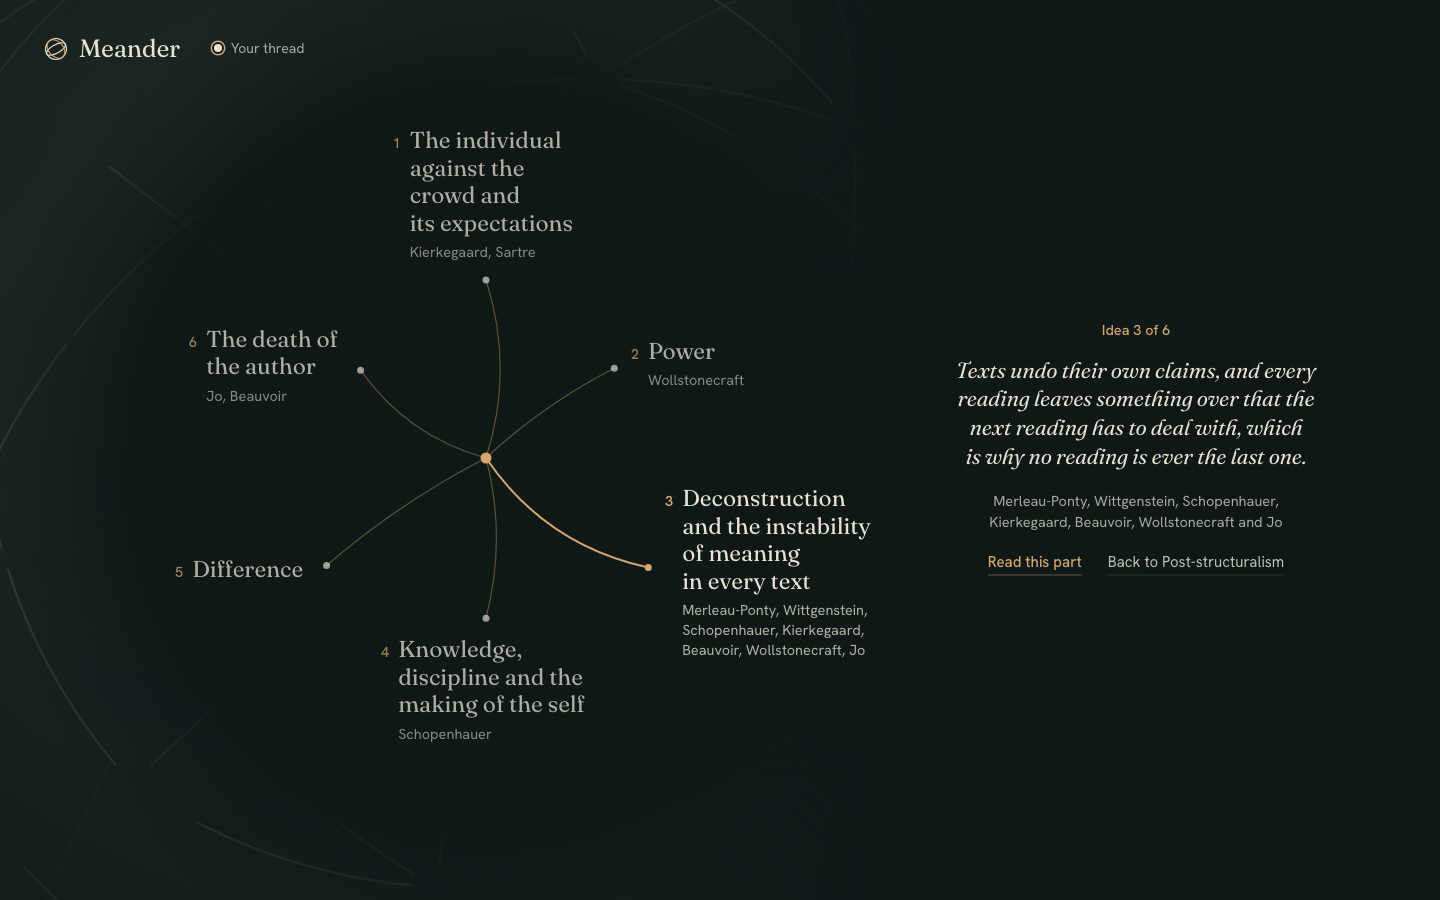
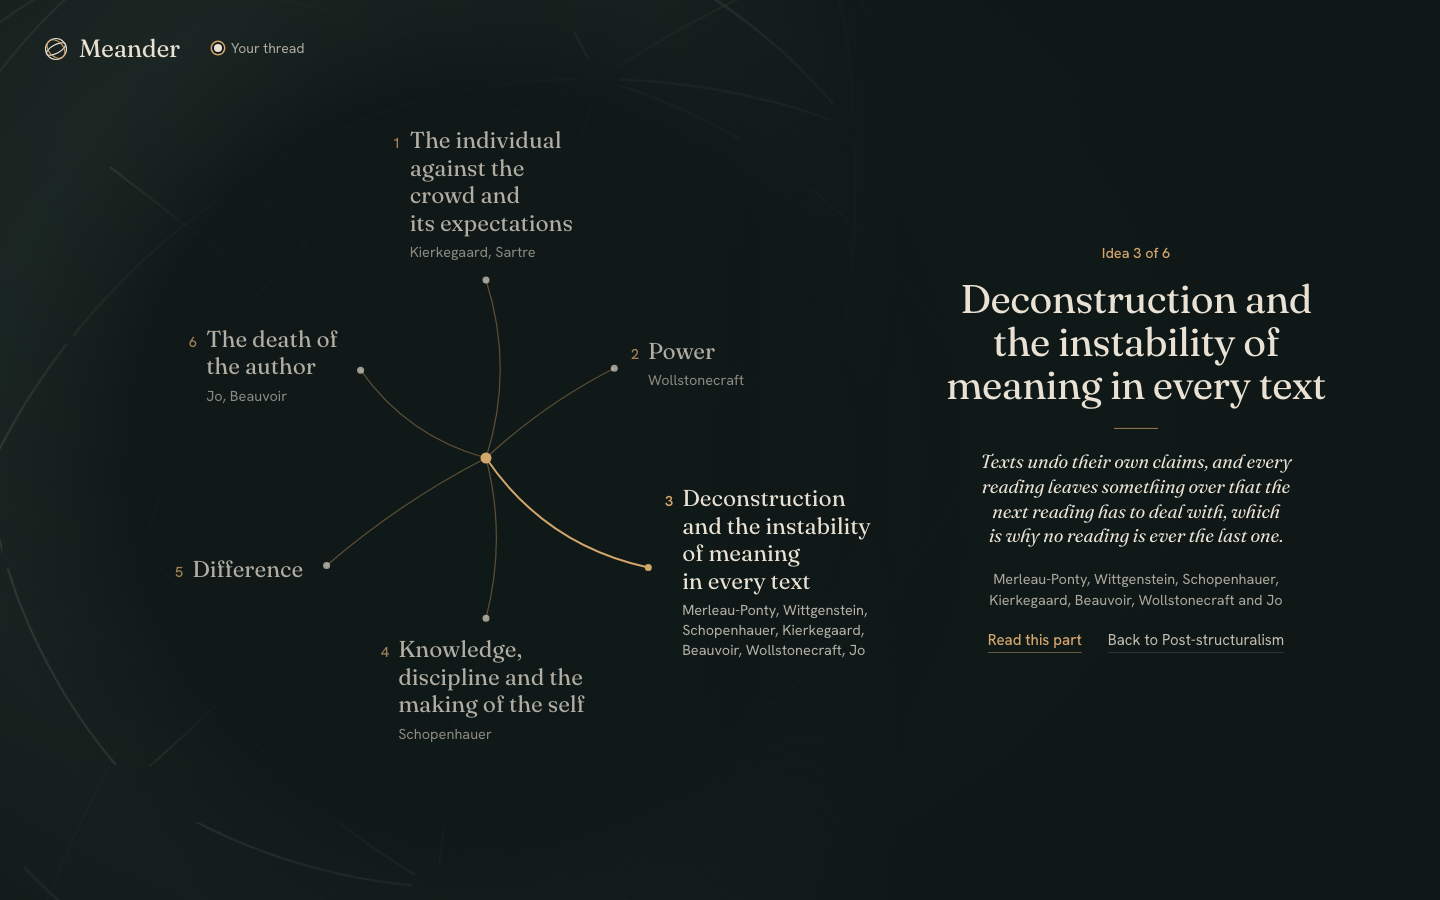
11 Meander: P7 shows the idea title again when picked (#30)

Changed region(s): [[0.6562, 0.3111, 0.9375, 0.7156]]

diff --git a/docs/products/11-meander/design/skeleton-r4/P7-first-page-mirrored.html b/docs/products/11-meander/design/skeleton-r4/P7-first-page-mirrored.html
@@ -216,8 +216,10 @@ svg.ov .sp{stroke-opacity:.72;stroke-width:1.3}
 .facts{margin-top:24px;font-size:14.5px;line-height:1.6;text-wrap:balance}
 .mid .lnk{margin-top:10px}
 .picked .kick{font-size:14.5px}
-.picked .sum{font-size:30px;line-height:1.22;color:var(--bone);max-width:440px;margin-top:16px}
-.picked .sum.long{font-size:22px;line-height:1.3}
+.picked h2{font-size:40px;line-height:1.08;letter-spacing:-.012em;margin-top:14px;max-width:440px;overflow-wrap:break-word}
+.picked .rule{margin:22px 0 20px}
+.picked .sum{font-size:22px;line-height:1.3;color:var(--bone);max-width:410px}
+.picked .sum.long{font-size:19px}
 .picked .with{margin-top:20px;font-size:14.5px;text-wrap:balance}
 .picked .row{display:flex;flex-wrap:wrap;justify-content:center;gap:0 26px;margin-top:10px}
 .picked .mid .lnk{margin-top:0}
@@ -253,7 +255,7 @@ svg.ov .sp{stroke-opacity:.72;stroke-width:1.3}
 <header class="solid"><button class="wm" translate="no" title="Back to the whole field"><svg width="24" height="24" viewBox="0 0 24 24" aria-hidden="true"><g fill="none" stroke="#e9e2d4" stroke-width="1.1"><circle cx="12" cy="12" r="10.5"/><ellipse cx="12" cy="12" rx="10.5" ry="4.2" transform="rotate(-28 12 12)"/><ellipse cx="12" cy="12" rx="10.5" ry="7.4" transform="rotate(48 12 12)" stroke="#d3a66c"/></g></svg>Meander</button><button class="yt" aria-expanded="false"><i></i>Your thread</button></header>
 <section class="info" aria-label="Existentialism">
 <div class="school"><div class="mid"><h1 class="d" data-f="name" tabindex="-1"></h1><i class="rule"></i><p class="ask d it" data-f="q" data-long="70"></p><p class="quiet facts"><span data-f="size"></span><br><span data-f="when"></span></p><a class="lnk" href="#read" data-read><u data-f="read"></u></a></div></div>
-<div class="picked"><div class="mid"><p class="kick" data-p="n"></p><p class="sum d it" data-p="summary" data-plong="100"></p><p class="quiet with" data-p="who"></p><p class="row"><a class="lnk" href="#read" data-read><u>Read this part</u></a><button class="lnk back" data-back><u data-f="back"></u></button></p></div></div>
+<div class="picked"><div class="mid"><p class="kick" data-p="n"></p><h2 class="d" data-p="title"></h2><i class="rule"></i><p class="sum d it" data-p="summary" data-plong="100"></p><p class="quiet with" data-p="who"></p><p class="row"><a class="lnk" href="#read" data-read><u>Read this part</u></a><button class="lnk back" data-back><u data-f="back"></u></button></p></div></div>
 </section>
 <p class="say" aria-hidden="true"></p><p class="sr" aria-live="polite"></p>
 </div>

diff --git a/docs/products/11-meander/design/skeleton-r4/_src/build_p7.py b/docs/products/11-meander/design/skeleton-r4/_src/build_p7.py
@@ -58,13 +58,15 @@ svg.ov .sp{stroke-opacity:.72;stroke-width:1.3}
 .facts{margin-top:24px;font-size:14.5px;line-height:1.6;text-wrap:balance}
 .mid .lnk{margin-top:10px}
 .picked .kick{font-size:14.5px}
-.picked .sum{font-size:30px;line-height:1.22;color:var(--bone);max-width:440px;margin-top:16px}
-.picked .sum.long{font-size:22px;line-height:1.3}
+.picked h2{font-size:40px;line-height:1.08;letter-spacing:-.012em;margin-top:14px;max-width:440px;overflow-wrap:break-word}
+.picked .rule{margin:22px 0 20px}
+.picked .sum{font-size:22px;line-height:1.3;color:var(--bone);max-width:410px}
+.picked .sum.long{font-size:19px}
 .picked .with{margin-top:20px;font-size:14.5px;text-wrap:balance}
 .picked .row{display:flex;flex-wrap:wrap;justify-content:center;gap:0 26px;margin-top:10px}
 .picked .mid .lnk{margin-top:0}
 .lnk.back{color:rgba(233,226,212,.82)}
 """, '<div class="veil"></div>', f"""<section class="info" aria-label="Existentialism">
 <div class="school"><div class="mid"><h1 class="d" data-f="name" tabindex="-1"></h1><i class="rule"></i><p class="ask d it" data-f="q" data-long="70"></p><p class="quiet facts"><span data-f="size"></span><br><span data-f="when"></span></p>{READ}</div></div>
-<div class="picked"><div class="mid"><p class="kick" data-p="n"></p><p class="sum d it" data-p="summary" data-plong="100"></p><p class="quiet with" data-p="who"></p><p class="row">{PART}{BACK}</p></div></div>
+<div class="picked"><div class="mid"><p class="kick" data-p="n"></p><h2 class="d" data-p="title"></h2><i class="rule"></i><p class="sum d it" data-p="summary" data-plong="100"></p><p class="quiet with" data-p="who"></p><p class="row">{PART}{BACK}</p></div></div>
 </section>""")

diff --git a/docs/products/11-meander/journal.md b/docs/products/11-meander/journal.md
@@ -172,3 +172,4 @@ For the shared pages (knowledge bank, problems, learnings, process changes), wri
 - **Round 4 (on L28):** six clickable panel prototypes (P1 open loop, P2 along the thread, P3 editorial column, P4 caption strip, P5 margin note, P6 first page), each in three states, plus worst-case checks. Critic: P2 8, P6 8, the rest 7; pick P2 (the question sits on the thread). Shared fixes include making thread 1 equal until picked and making the knot less like a mind map (`design/skeleton-r4/critic.md`). Review page: `design/skeleton-r4/index.html`. Waiting on the owner's pick.
 - **L29: P6, mirrored.** The owner prefers P6 but wants the knot on the left and the overview on the right, and asked to see a prototype first. The designer is building P7 (P6 mirrored) with the critic's shared fixes: no thread looks picked at the start, a less diagram-like knot, readable small text, the place and dates moved up next to the size line, and "Back to Existentialism" always spelled out.
 - **P7 built:** P6 mirrored, with the shared fixes in. I checked the screenshots: nothing overlaps, and no idea looks picked at the start. In the picked state the summary is the big text, so the idea title is set only once, on the knot. Waiting on the owner's look.
+- **#30:** at the owner's request, P7's picked state sets the idea title again on the right, above the summary, to help recall. The summary went down to 22px. I checked the worst case (a three-line title) and nothing collides.

diff --git a/docs/products/11-meander/feedback.md b/docs/products/11-meander/feedback.md
@@ -33,3 +33,4 @@ Status: `open` · `fixing` · `fixed` · `parked` · `won't do`
 | 27 | Owner, pilot review | Some sentences list several things and feel dense; use bullet lists for those, and make the whole draft lighter to read | fixing (T27) |
 | 28 | Owner idea (26 Nov) | Inside a school, show its key ideas visually as well, so you get a sense of how big it is and what themes and questions it holds. A mind map or a dashboard? Are six themes too few? | open, discussing; folds into the card design. Owner (26 Nov): all three kinds of size matter: how much there is to learn (ideas, questions, time), how far it reaches (when and where it sits), and how much room is inside it (thinkers, how far apart). The product's job is a learning framework: a skeleton of a subject before the details, to hang new learning on. Asked for research on the learning theory, then an MVP cut. Decided L26: skeleton only first |
 | 29 | Owner, round 3 review (26 Nov) | Prefers A1 over A3: the product is a thread of ideas, and A1 zooms into the ball of thread, so it feels more immersive. Asked why the critic preferred A3. None of the B panels speak to them (B1 maybe); hard to judge the interaction from stills | A1 decided (L28); new panel round running |
+| 30 | Owner, P7 review (27 Nov) | Show the idea's title again on the right when an idea is picked: seeing it again helps recall | done: title above the summary, summary a step smaller |
